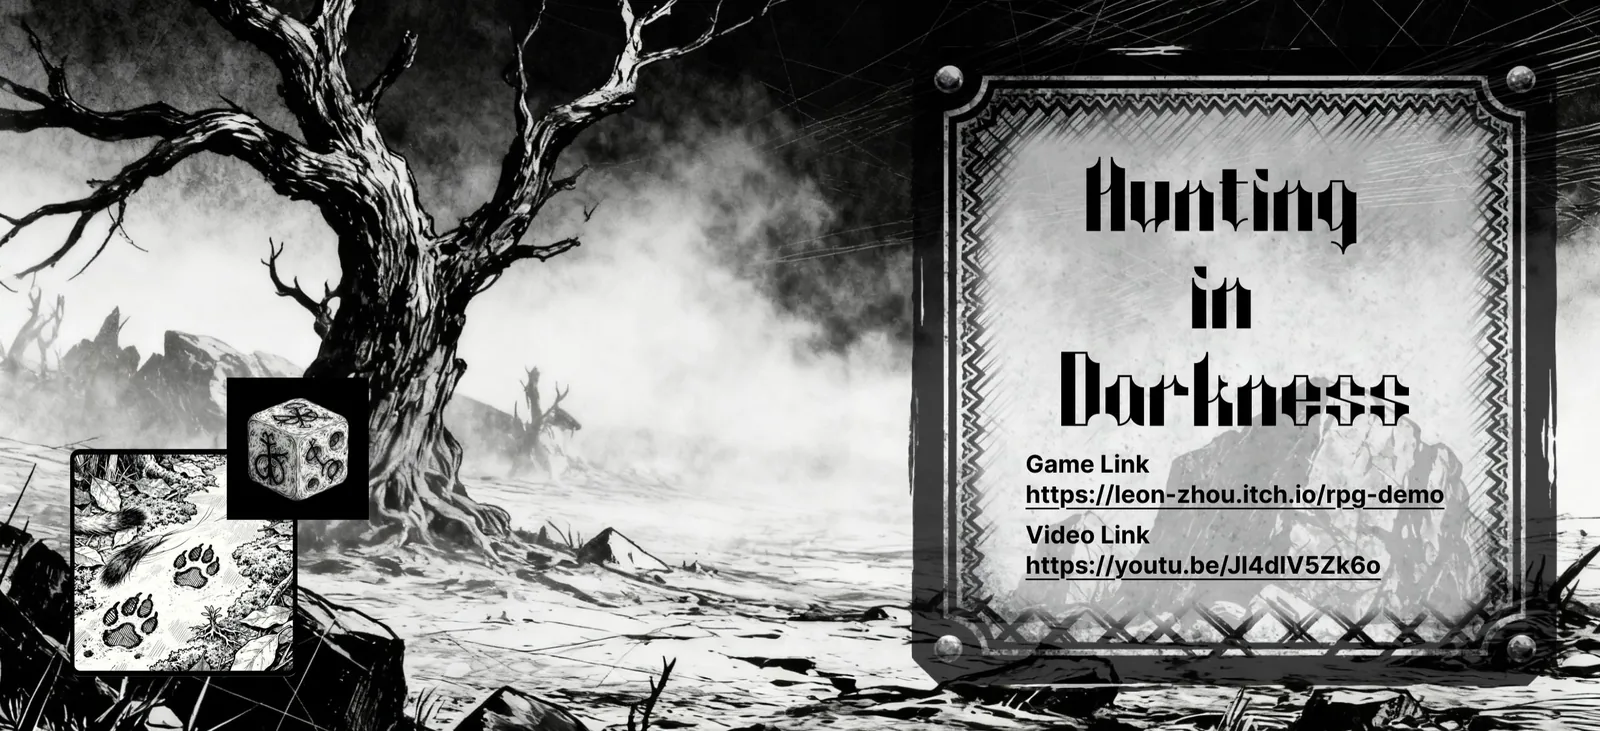
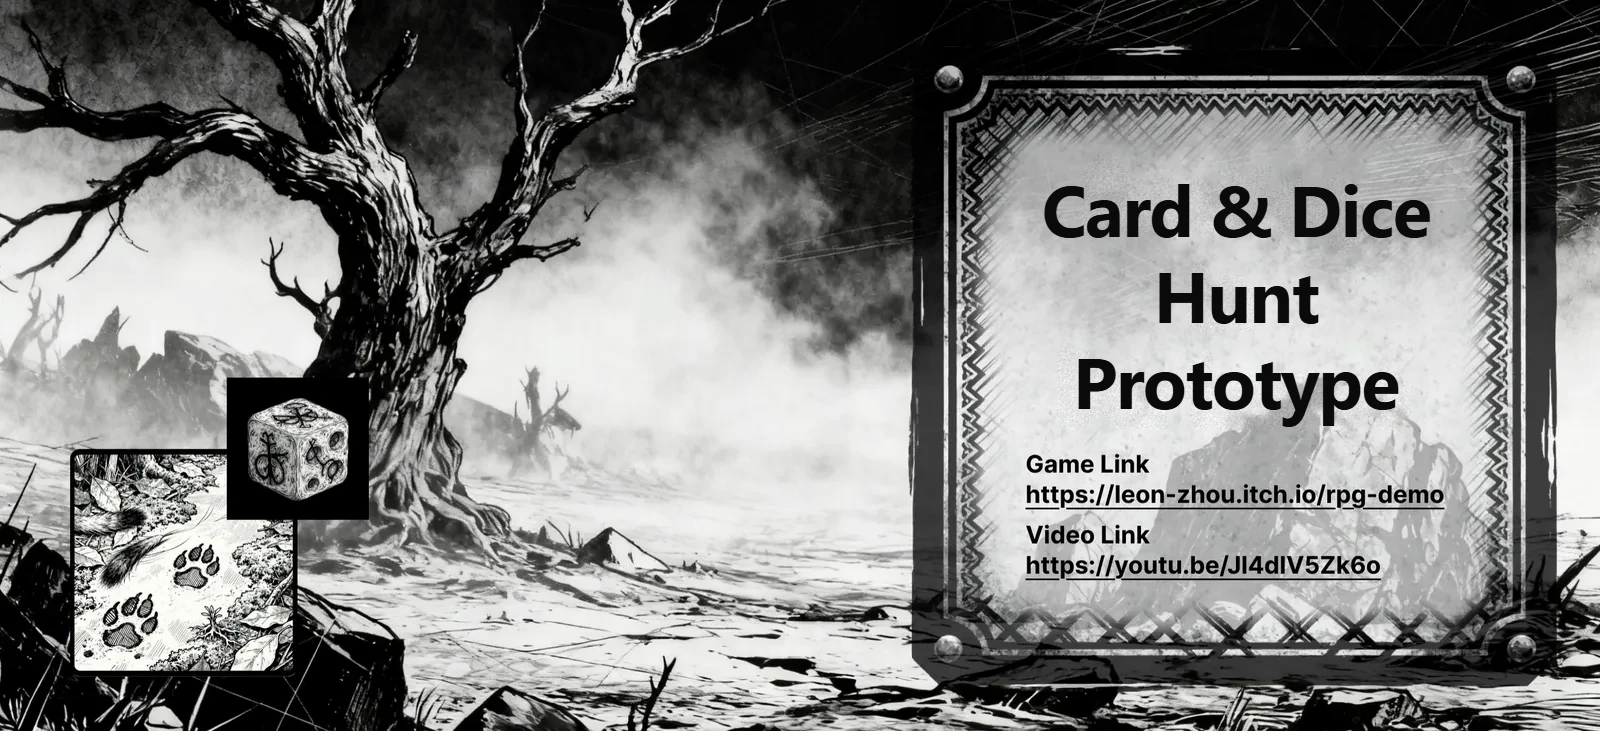
Rename the one-week prototype to Card & Dice Hunt Prototype

Changed region(s): [[0.6562, 0.4815, 0.875, 0.6019], [0.625, 0.2107, 0.9062, 0.3311], [0.7188, 0.3611, 0.8438, 0.4514]]

diff --git a/app/translations.ts b/app/translations.ts
@@ -702,36 +702,37 @@ export const contentMessages = {
     "project.punch-in-rush.section.punch-3.description": "The controller prototype was isolated in a test scene before being validated by multiple players and integrated into production levels.",
     "project.punch-in-rush.section.punch-3.details": "Velocity updates use vector projections and state-specific formulas with explicit edge-case checks. I also studied ray-marched volumetric clouds and a Blender-baked wall-unfold animation; the latter was removed after testing because it conflicted with the final skybox and did not improve the experience.",
     "project.punch-in-rush.section.punch-3.imageAlt": "Punch-in Rush character controller and rendering studies",
-    "project.hunting-in-darkness.eyebrow": "Tactical card-RPG prototype",
-    "project.hunting-in-darkness.description": "A compact prototype built in one week to test the hunting and showdown loop of a larger, Kingdom Death: Monster-inspired tactical game design.",
-    "project.hunting-in-darkness.details": "Cards and dice combine uncertainty with preparation: players gather food, preparedness, and target tokens during the hunt, then spend limited energy to attack, dodge, or rest during the showdown.",
-    "project.hunting-in-darkness.tags.0": "Systems Design",
-    "project.hunting-in-darkness.tags.1": "Card Combat",
-    "project.hunting-in-darkness.tags.2": "Rapid Prototyping",
-    "project.hunting-in-darkness.tags.3": "Playtesting",
-    "project.hunting-in-darkness.links.0.label": "Play on Itch.io",
-    "project.hunting-in-darkness.links.1.label": "Watch video",
-    "project.hunting-in-darkness.links.2.label": "Game website",
-    "project.hunting-in-darkness.gallery.0.alt": "Hunting in Darkness playable prototype",
-    "project.hunting-in-darkness.gallery.1.alt": "Hunting in Darkness inspiration and design document",
-    "project.hunting-in-darkness.gallery.2.alt": "Hunting in Darkness combat actions, rules, and event balancing",
-    "project.hunting-in-darkness.gallery.3.alt": "Hunting in Darkness Unity tooling and art pipeline",
-    "project.hunting-in-darkness.section.hunt-0.title": "Playable tactical slice",
-    "project.hunting-in-darkness.section.hunt-0.description": "A one-week prototype validates the core feel of a larger tactical card-RPG before the full design is committed to production.",
-    "project.hunting-in-darkness.section.hunt-0.details": "The prototype focuses on two connected phases: prepare while hunting, then survive a showdown. It creates a fast feedback loop for checking whether the design is understandable, playable, and worth iterating through direct player feedback.",
-    "project.hunting-in-darkness.section.hunt-0.imageAlt": "Hunting in Darkness playable prototype",
-    "project.hunting-in-darkness.section.hunt-1.title": "KDM-inspired structure",
-    "project.hunting-in-darkness.section.hunt-1.description": "The design adapts the preparation, risk, and lasting consequence of Kingdom Death: Monster into a compact digital format.",
-    "project.hunting-in-darkness.section.hunt-1.details": "Players explore a hostile world, collect resources, craft, develop characters, and face dangerous monsters. The current document is maintained as an evolving design rather than a fixed pitch: ideas move into prototypes so combat rhythm, resource pressure, and game feel can be tested early.",
-    "project.hunting-in-darkness.section.hunt-1.imageAlt": "Hunting in Darkness inspiration and design document",
-    "project.hunting-in-darkness.section.hunt-2.title": "Cards, dice, and calculated uncertainty",
-    "project.hunting-in-darkness.section.hunt-2.description": "Random outcomes are constrained by preparation so lucky rolls feel exciting without removing strategic control.",
-    "project.hunting-in-darkness.section.hunt-2.details": "Food Stock sustains the hunt, Target Tokens advance toward the showdown, Preparedness absorbs risk, and Wounds define failure. During combat, limited Energy is spent on attack, dodge, or rest. Event probabilities and expected resource changes were modeled in spreadsheets, then adjusted through playtesting.",
-    "project.hunting-in-darkness.section.hunt-2.imageAlt": "Hunting in Darkness combat actions, rules, and event balancing",
-    "project.hunting-in-darkness.section.hunt-3.title": "Data-driven production pipeline",
-    "project.hunting-in-darkness.section.hunt-3.description": "Unity authoring tools keep card events, outcomes, animation flow, and presentation easy to revise as the design changes.",
-    "project.hunting-in-darkness.section.hunt-3.details": "Odin Serializer powers an event configuration tool, while DOTween and UniTask coordinate card animation and game flow. The monochrome comic direction was developed with generative image tools and refined in Photoshop to keep line weight, shadow, and atmosphere consistent.",
-    "project.hunting-in-darkness.section.hunt-3.imageAlt": "Hunting in Darkness Unity tooling and art pipeline",
+    "project.card-dice-hunt-prototype.title": "Card & Dice Hunt Prototype",
+    "project.card-dice-hunt-prototype.eyebrow": "Tactical card-RPG prototype",
+    "project.card-dice-hunt-prototype.description": "A compact prototype built in one week to test the hunting and showdown loop of a larger, Kingdom Death: Monster-inspired tactical game design.",
+    "project.card-dice-hunt-prototype.details": "Cards and dice combine uncertainty with preparation: players gather food, preparedness, and target tokens during the hunt, then spend limited energy to attack, dodge, or rest during the showdown.",
+    "project.card-dice-hunt-prototype.tags.0": "Systems Design",
+    "project.card-dice-hunt-prototype.tags.1": "Card Combat",
+    "project.card-dice-hunt-prototype.tags.2": "Rapid Prototyping",
+    "project.card-dice-hunt-prototype.tags.3": "Playtesting",
+    "project.card-dice-hunt-prototype.links.0.label": "Play on Itch.io",
+    "project.card-dice-hunt-prototype.links.1.label": "Watch video",
+    "project.card-dice-hunt-prototype.links.2.label": "Main project website",
+    "project.card-dice-hunt-prototype.gallery.0.alt": "Card & Dice Hunt Prototype playable build",
+    "project.card-dice-hunt-prototype.gallery.1.alt": "Card & Dice Hunt Prototype inspiration and design document",
+    "project.card-dice-hunt-prototype.gallery.2.alt": "Card & Dice Hunt Prototype combat actions, rules, and event balancing",
+    "project.card-dice-hunt-prototype.gallery.3.alt": "Card & Dice Hunt Prototype Unity tooling and art pipeline",
+    "project.card-dice-hunt-prototype.section.hunt-0.title": "Playable tactical slice",
+    "project.card-dice-hunt-prototype.section.hunt-0.description": "A one-week prototype validates the core feel of a larger tactical card-RPG before the full design is committed to production.",
+    "project.card-dice-hunt-prototype.section.hunt-0.details": "The prototype focuses on two connected phases: prepare while hunting, then survive a showdown. It creates a fast feedback loop for checking whether the design is understandable, playable, and worth iterating through direct player feedback.",
+    "project.card-dice-hunt-prototype.section.hunt-0.imageAlt": "Card & Dice Hunt Prototype playable build",
+    "project.card-dice-hunt-prototype.section.hunt-1.title": "KDM-inspired structure",
+    "project.card-dice-hunt-prototype.section.hunt-1.description": "The design adapts the preparation, risk, and lasting consequence of Kingdom Death: Monster into a compact digital format.",
+    "project.card-dice-hunt-prototype.section.hunt-1.details": "Players explore a hostile world, collect resources, craft, develop characters, and face dangerous monsters. The current document is maintained as an evolving design rather than a fixed pitch: ideas move into prototypes so combat rhythm, resource pressure, and game feel can be tested early.",
+    "project.card-dice-hunt-prototype.section.hunt-1.imageAlt": "Card & Dice Hunt Prototype inspiration and design document",
+    "project.card-dice-hunt-prototype.section.hunt-2.title": "Cards, dice, and calculated uncertainty",
+    "project.card-dice-hunt-prototype.section.hunt-2.description": "Random outcomes are constrained by preparation so lucky rolls feel exciting without removing strategic control.",
+    "project.card-dice-hunt-prototype.section.hunt-2.details": "Food Stock sustains the hunt, Target Tokens advance toward the showdown, Preparedness absorbs risk, and Wounds define failure. During combat, limited Energy is spent on attack, dodge, or rest. Event probabilities and expected resource changes were modeled in spreadsheets, then adjusted through playtesting.",
+    "project.card-dice-hunt-prototype.section.hunt-2.imageAlt": "Card & Dice Hunt Prototype combat actions, rules, and event balancing",
+    "project.card-dice-hunt-prototype.section.hunt-3.title": "Data-driven production pipeline",
+    "project.card-dice-hunt-prototype.section.hunt-3.description": "Unity authoring tools keep card events, outcomes, animation flow, and presentation easy to revise as the design changes.",
+    "project.card-dice-hunt-prototype.section.hunt-3.details": "Odin Serializer powers an event configuration tool, while DOTween and UniTask coordinate card animation and game flow. The monochrome comic direction was developed with generative image tools and refined in Photoshop to keep line weight, shadow, and atmosphere consistent.",
+    "project.card-dice-hunt-prototype.section.hunt-3.imageAlt": "Card & Dice Hunt Prototype Unity tooling and art pipeline",
     "project.outlaws-dead-end.eyebrow": "GMTK Game Jam 2025",
     "project.outlaws-dead-end.description": "A puzzle game built around a preset action loop. Players alter the loop with jump pads and blockers to guide an outlaw to each destination.",
     "project.outlaws-dead-end.details": "As team lead, programmer, and designer, I translated GMTK 2025’s theme “Loop” into both the character’s constraint and the player’s planning space, then supported the team with a custom level editor and shared asset workflow.",
@@ -1511,36 +1512,37 @@ export const contentMessages = {
     "project.punch-in-rush.section.punch-3.description": "控制器原型先在独立测试场景中开发，经多名玩家验证后再集成到正式关卡。",
     "project.punch-in-rush.section.punch-3.details": "速度更新采用向量投影和各状态专用公式，并显式检查边界情况。我还研究了光线步进体积云和 Blender 烘焙的墙面展开动画；后者在测试后被移除，因为它与最终天空盒冲突，也没有改善体验。",
     "project.punch-in-rush.section.punch-3.imageAlt": "Punch-in Rush 角色控制器与渲染研究",
-    "project.hunting-in-darkness.eyebrow": "战术卡牌 RPG 原型",
-    "project.hunting-in-darkness.description": "一个在一周内完成的紧凑原型，用于验证某个小玩法体验。",
-    "project.hunting-in-darkness.details": "卡牌与骰子把不确定性和准备相结合：玩家在狩猎中收集食物、准备度和目标标记，再在决战中消耗有限能量进行攻击、闪避或休息。",
-    "project.hunting-in-darkness.tags.0": "系统设计",
-    "project.hunting-in-darkness.tags.1": "卡牌战斗",
-    "project.hunting-in-darkness.tags.2": "快速原型",
-    "project.hunting-in-darkness.tags.3": "玩法测试",
-    "project.hunting-in-darkness.links.0.label": "在 Itch.io 游玩",
-    "project.hunting-in-darkness.links.1.label": "观看视频",
-    "project.hunting-in-darkness.links.2.label": "游戏网站",
-    "project.hunting-in-darkness.gallery.0.alt": "Hunting in Darkness 可玩原型",
-    "project.hunting-in-darkness.gallery.1.alt": "Hunting in Darkness 灵感与设计文档",
-    "project.hunting-in-darkness.gallery.2.alt": "Hunting in Darkness 战斗行动、规则与事件平衡",
-    "project.hunting-in-darkness.gallery.3.alt": "Hunting in Darkness Unity 工具与美术管线",
-    "project.hunting-in-darkness.section.hunt-0.title": "可玩的战术切片",
-    "project.hunting-in-darkness.section.hunt-0.description": "在完整设计进入制作前，用一周原型验证大型战术卡牌 RPG 的核心体验。",
-    "project.hunting-in-darkness.section.hunt-0.details": "原型聚焦两个相连阶段：狩猎中进行准备，随后在决战中生存。它通过直接的玩家反馈建立快速循环，检查设计是否易懂、可玩且值得继续迭代。",
-    "project.hunting-in-darkness.section.hunt-0.imageAlt": "Hunting in Darkness 可玩原型",
-    "project.hunting-in-darkness.section.hunt-1.title": "受 KDM 启发的结构",
-    "project.hunting-in-darkness.section.hunt-1.description": "设计将《Kingdom Death: Monster》中的准备、风险与长久后果转化为紧凑的数字形式。",
-    "project.hunting-in-darkness.section.hunt-1.details": "玩家探索敌对世界、收集资源、制作物品、培养角色并面对危险怪物。当前文档作为持续演进的设计维护，而非固定企划；想法会进入原型，以便尽早测试战斗节奏、资源压力与游戏手感。",
-    "project.hunting-in-darkness.section.hunt-1.imageAlt": "Hunting in Darkness 灵感与设计文档",
-    "project.hunting-in-darkness.section.hunt-2.title": "卡牌、骰子与可计算的不确定性",
-    "project.hunting-in-darkness.section.hunt-2.description": "随机结果受准备程度约束，让幸运掷骰保持刺激，同时不夺走策略控制。",
-    "project.hunting-in-darkness.section.hunt-2.details": "食物储备维持狩猎，目标标记推进决战，准备度吸收风险，伤口定义失败。战斗中，有限能量用于攻击、闪避或休息。事件概率和资源期望变化先在表格中建模，再通过玩法测试调整。",
-    "project.hunting-in-darkness.section.hunt-2.imageAlt": "Hunting in Darkness 战斗行动、规则与事件平衡",
-    "project.hunting-in-darkness.section.hunt-3.title": "数据驱动的制作管线",
-    "project.hunting-in-darkness.section.hunt-3.description": "Unity 编辑工具让卡牌事件、结果、动画流程与表现能随设计变化轻松修订。",
-    "project.hunting-in-darkness.section.hunt-3.details": "Odin Serializer 驱动事件配置工具，DOTween 与 UniTask 协调卡牌动画和游戏流程。黑白漫画美术方向借助生成式图像工具开发，再在 Photoshop 中细化，以保持线条粗细、阴影与氛围一致。",
-    "project.hunting-in-darkness.section.hunt-3.imageAlt": "Hunting in Darkness Unity 工具与美术管线",
+    "project.card-dice-hunt-prototype.title": "卡牌骰子狩猎原型",
+    "project.card-dice-hunt-prototype.eyebrow": "战术卡牌 RPG 原型",
+    "project.card-dice-hunt-prototype.description": "一个在一周内完成的紧凑原型，用于验证某个小玩法体验。",
+    "project.card-dice-hunt-prototype.details": "卡牌与骰子把不确定性和准备相结合：玩家在狩猎中收集食物、准备度和目标标记，再在决战中消耗有限能量进行攻击、闪避或休息。",
+    "project.card-dice-hunt-prototype.tags.0": "系统设计",
+    "project.card-dice-hunt-prototype.tags.1": "卡牌战斗",
+    "project.card-dice-hunt-prototype.tags.2": "快速原型",
+    "project.card-dice-hunt-prototype.tags.3": "玩法测试",
+    "project.card-dice-hunt-prototype.links.0.label": "在 Itch.io 游玩",
+    "project.card-dice-hunt-prototype.links.1.label": "观看视频",
+    "project.card-dice-hunt-prototype.links.2.label": "正式项目网站",
+    "project.card-dice-hunt-prototype.gallery.0.alt": "卡牌骰子狩猎原型的可玩版本",
+    "project.card-dice-hunt-prototype.gallery.1.alt": "卡牌骰子狩猎原型的灵感与设计文档",
+    "project.card-dice-hunt-prototype.gallery.2.alt": "卡牌骰子狩猎原型的战斗行动、规则与事件平衡",
+    "project.card-dice-hunt-prototype.gallery.3.alt": "卡牌骰子狩猎原型的 Unity 工具与美术管线",
+    "project.card-dice-hunt-prototype.section.hunt-0.title": "可玩的战术切片",
+    "project.card-dice-hunt-prototype.section.hunt-0.description": "在完整设计进入制作前，用一周原型验证大型战术卡牌 RPG 的核心体验。",
+    "project.card-dice-hunt-prototype.section.hunt-0.details": "原型聚焦两个相连阶段：狩猎中进行准备，随后在决战中生存。它通过直接的玩家反馈建立快速循环，检查设计是否易懂、可玩且值得继续迭代。",
+    "project.card-dice-hunt-prototype.section.hunt-0.imageAlt": "卡牌骰子狩猎原型的可玩版本",
+    "project.card-dice-hunt-prototype.section.hunt-1.title": "受 KDM 启发的结构",
+    "project.card-dice-hunt-prototype.section.hunt-1.description": "设计将《Kingdom Death: Monster》中的准备、风险与长久后果转化为紧凑的数字形式。",
+    "project.card-dice-hunt-prototype.section.hunt-1.details": "玩家探索敌对世界、收集资源、制作物品、培养角色并面对危险怪物。当前文档作为持续演进的设计维护，而非固定企划；想法会进入原型，以便尽早测试战斗节奏、资源压力与游戏手感。",
+    "project.card-dice-hunt-prototype.section.hunt-1.imageAlt": "卡牌骰子狩猎原型的灵感与设计文档",
+    "project.card-dice-hunt-prototype.section.hunt-2.title": "卡牌、骰子与可计算的不确定性",
+    "project.card-dice-hunt-prototype.section.hunt-2.description": "随机结果受准备程度约束，让幸运掷骰保持刺激，同时不夺走策略控制。",
+    "project.card-dice-hunt-prototype.section.hunt-2.details": "食物储备维持狩猎，目标标记推进决战，准备度吸收风险，伤口定义失败。战斗中，有限能量用于攻击、闪避或休息。事件概率和资源期望变化先在表格中建模，再通过玩法测试调整。",
+    "project.card-dice-hunt-prototype.section.hunt-2.imageAlt": "卡牌骰子狩猎原型的战斗行动、规则与事件平衡",
+    "project.card-dice-hunt-prototype.section.hunt-3.title": "数据驱动的制作管线",
+    "project.card-dice-hunt-prototype.section.hunt-3.description": "Unity 编辑工具让卡牌事件、结果、动画流程与表现能随设计变化轻松修订。",
+    "project.card-dice-hunt-prototype.section.hunt-3.details": "Odin Serializer 驱动事件配置工具，DOTween 与 UniTask 协调卡牌动画和游戏流程。黑白漫画美术方向借助生成式图像工具开发，再在 Photoshop 中细化，以保持线条粗细、阴影与氛围一致。",
+    "project.card-dice-hunt-prototype.section.hunt-3.imageAlt": "卡牌骰子狩猎原型的 Unity 工具与美术管线",
     "project.outlaws-dead-end.eyebrow": "GMTK Game Jam 2025",
     "project.outlaws-dead-end.description": "一款围绕预设行动循环构建的解谜游戏。玩家利用跳板和阻挡器改变循环，引导牛仔到达每个目的地。",
     "project.outlaws-dead-end.details": "作为团队负责人、程序员和设计师，我将 GMTK 2025 的主题“Loop”同时转化为角色约束和玩家的规划空间，并用自定义关卡编辑器与共享资产工作流支持团队。",

diff --git a/app/portfolio-data.ts b/app/portfolio-data.ts
@@ -266,9 +266,9 @@ export const projects: Record<TabId, Project[]> = {
       featured: true,
     },
     {
-      id: "hunting-in-darkness",
+      id: "card-dice-hunt-prototype",
       index: "04",
-      title: "Hunting in Darkness",
+      title: "Card & Dice Hunt Prototype",
       eyebrow: "Tactical card-RPG prototype",
       year: "2025",
       description:
@@ -279,13 +279,13 @@ export const projects: Record<TabId, Project[]> = {
       links: [
         { label: "Play on Itch.io", href: "https://leon-zhou.itch.io/rpg-demo" },
         { label: "Watch video", href: "https://youtu.be/JI4dIV5Zk6o" },
-        { label: "Game website", href: "https://hubr1zz.github.io/HuntingInDarkness/" },
+        { label: "Main project website", href: "https://hubr1zz.github.io/HuntingInDarkness/" },
       ],
       gallery: [
-        { src: "/images/portfolio/hunt-overview.webp", alt: "Hunting in Darkness playable prototype", width: 1600, height: 731 },
-        { src: "/images/portfolio/hunt-design.webp", alt: "Hunting in Darkness inspiration and design document", width: 1600, height: 731 },
-        { src: "/images/portfolio/hunt-systems.webp", alt: "Hunting in Darkness combat actions, rules, and event balancing", width: 1600, height: 731 },
-        { src: "/images/portfolio/hunt-production.webp", alt: "Hunting in Darkness Unity tooling and art pipeline", width: 1600, height: 731 },
+        { src: "/images/portfolio/hunt-overview.webp", alt: "Card & Dice Hunt Prototype playable build", width: 1600, height: 731 },
+        { src: "/images/portfolio/hunt-design.webp", alt: "Card & Dice Hunt Prototype inspiration and design document", width: 1600, height: 731 },
+        { src: "/images/portfolio/hunt-systems.webp", alt: "Card & Dice Hunt Prototype combat actions, rules, and event balancing", width: 1600, height: 731 },
+        { src: "/images/portfolio/hunt-production.webp", alt: "Card & Dice Hunt Prototype Unity tooling and art pipeline", width: 1600, height: 731 },
       ],
     },
     {
@@ -939,7 +939,7 @@ export function getBoardItems(project: Project): BoardItem[] {
     return project.gallery.map((image, index) => ({ id: `punch-${index}`, ...explanations[index], ...boardImage(image) }));
   }
 
-  if (project.id === "hunting-in-darkness" && project.gallery) {
+  if (project.id === "card-dice-hunt-prototype" && project.gallery) {
     const explanations = [
       {
         title: "Playable tactical slice",

diff --git a/app/portfolio.tsx b/app/portfolio.tsx
@@ -799,7 +799,7 @@ function CaseMedia({ item, project, onExpand }: { item: BoardItem; project: Proj
   return null;
 }
 
-const relatedProjectIds: Partial<Record<string, string[]>> = { "tactics-design": ["hunting-in-darkness"], "hunting-in-darkness": ["tactics-design"], zworkflow: ["action-chain-weaver", "interaction"], "action-chain-weaver": ["interaction", "zworkflow"], interaction: ["action-chain-weaver", "zworkflow"] };
+const relatedProjectIds: Partial<Record<string, string[]>> = { "tactics-design": ["card-dice-hunt-prototype"], "card-dice-hunt-prototype": ["tactics-design"], zworkflow: ["action-chain-weaver", "interaction"], "action-chain-weaver": ["interaction", "zworkflow"], interaction: ["action-chain-weaver", "zworkflow"] };
 
 function relatedProjects(project: Project & { category: TabId }) {
   const preferred = relatedProjectIds[project.id] ?? [];

diff --git a/public/projects/hunting-in-darkness/index.html b/public/projects/hunting-in-darkness/index.html
@@ -1,0 +1,9 @@
+<!doctype html>
+<html lang="en">
+<head>
+<meta charset="utf-8">
+<meta name="robots" content="noindex">
+<meta http-equiv="refresh" content="0; url=../card-dice-hunt-prototype/">
+<link rel="canonical" href="../card-dice-hunt-prototype/">
+</head>
+</html>
